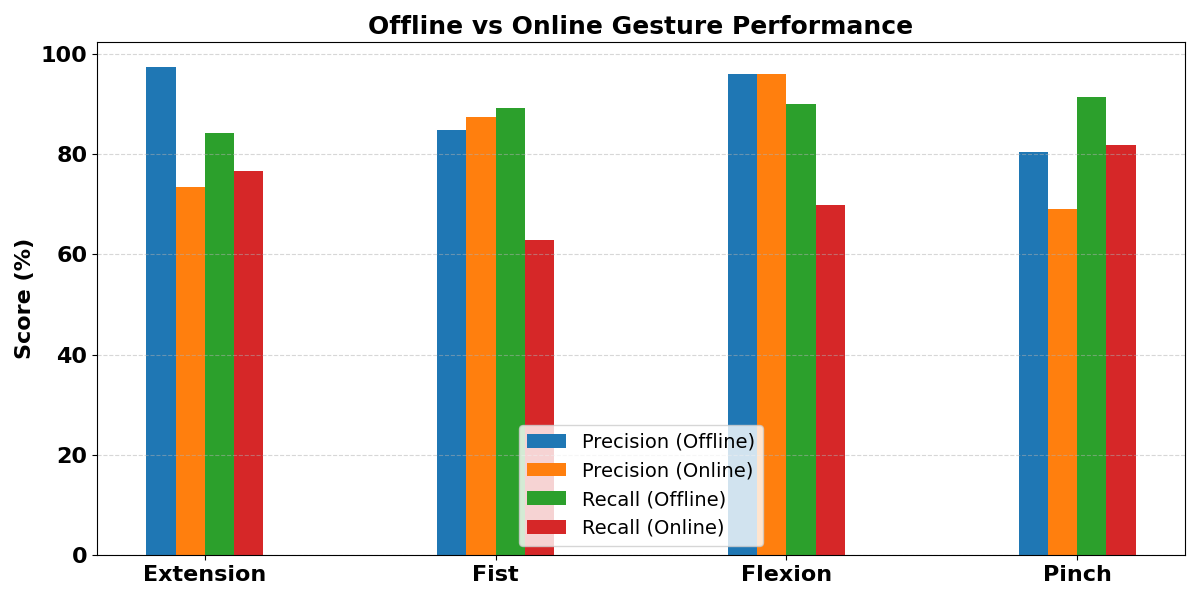
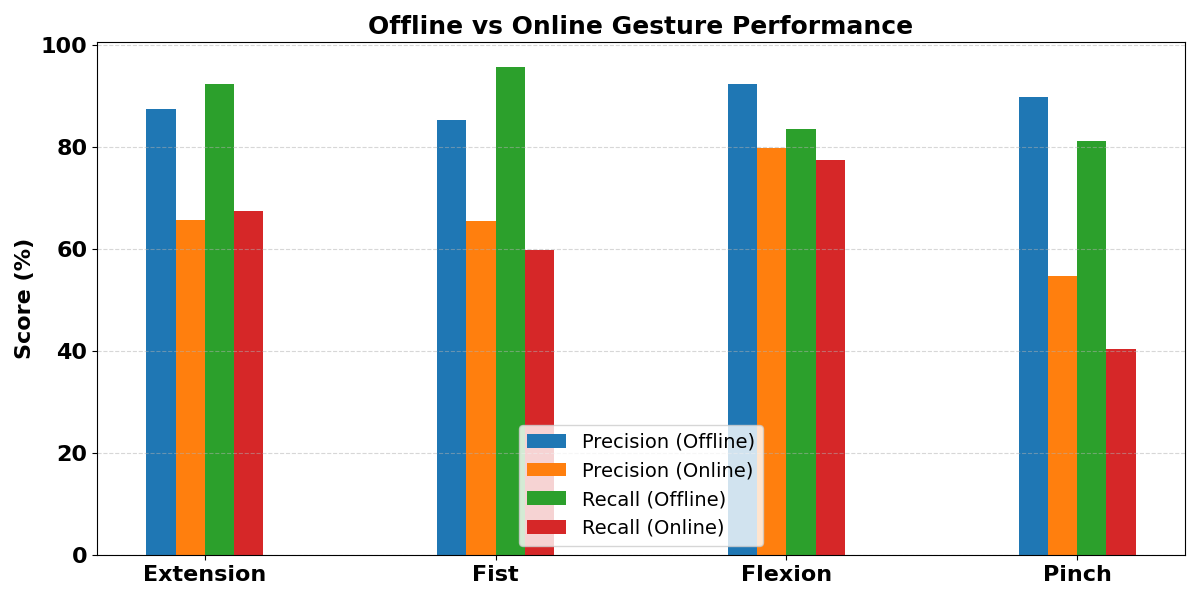
fixed some figures

diff --git a/Python/compareTestResults.py b/Python/compareTestResults.py
@@ -1,7 +1,6 @@
 import os
 import re
 from datetime import timedelta
-
 import numpy as np
 import pandas as pd
 import seaborn as sns
@@ -17,7 +16,7 @@ from collections import defaultdict
 
 pd.set_option("display.max_columns", None)
 
-participantNr = 1
+participantNr = 6
 
 
 def calculateTestStats(file, showPlot: bool):
@@ -72,7 +71,7 @@ def calculateTestStats(file, showPlot: bool):
     return results_df
 
 
-#testStats = calculateTestStats(f"TestData/Participant {participantNr}/Test_log_{participantNr}.csv", False)
+testStats = calculateTestStats(f"TestData/Participant {participantNr}/Test_log_{participantNr}.csv", False)
 #print(testStats)
 
 
@@ -144,8 +143,40 @@ def compareTrainAndTestSet(participantNr: int, testStats):
         print(f"Failed to compare classification reports: {e}")
 
 
-#comparison_df = compareTrainAndTestSet(participantNr, testStats)
+comparison_df = compareTrainAndTestSet(participantNr, testStats)
 
+
+def plot_connected_f1_scores(df):
+    # Convert percentages to 0–1 scale
+    df["f1-score (Offline)"] = df["f1-score (Offline)"] / 100
+    df["f1-score (Online)"] = df["f1-score (Online)"] / 100
+
+    plt.figure(figsize=(8, 5))
+
+    for idx, row in df.iterrows():
+        offline_score = row["f1-score (Offline)"]
+        online_score = row["f1-score (Online)"]
+        diff = online_score - offline_score
+
+        # Plot line with markers
+        plt.plot(["Offline", "Online"],
+                 [offline_score, online_score],
+                 marker="o",
+                 label=f"{row['Gesture']} (Delta={diff:+.2f})")  # Δ in legend
+
+    plt.title("F1-Score: Online vs Offline per Gesture", fontsize=16, fontweight="bold")
+    plt.ylabel("F1-Score", fontsize=16, fontweight="bold")
+    plt.xticks(fontsize=16, fontweight="bold")
+    plt.yticks(fontsize=16, fontweight="bold")
+    plt.ylim(0.7, 1.0)
+    plt.grid(True, linestyle="--", alpha=0.4)
+    plt.legend(title="Gesture (Delta F1)", fontsize=14, title_fontsize=16)
+    plt.tight_layout()
+    plt.savefig("connected_f1_scores.png")
+    plt.show()
+
+
+plot_connected_f1_scores(comparison_df)
 
 def plotGesturePerformanceComparison(comparison_df):
     """
@@ -213,6 +244,88 @@ def plotGesturePerformanceComparison(comparison_df):
 #plotGesturePerformanceComparison(comparison_df)
 
 
+def collect_online_f1_scores(base_path="TestData"):
+    all_data = []
+
+    for folder in os.listdir(base_path):
+        if folder.startswith("Participant "):
+            try:
+                participantNr = int(folder.split(" ")[1])
+                file_path = os.path.join(base_path, folder, f"Test_log_{participantNr}.csv")
+
+                testStats = calculateTestStats(file_path, False)
+                for _, row in testStats.iterrows():
+                    all_data.append({
+                        "Participant": participantNr,
+                        "Gesture": row["gesture"],
+                        "F1-score": row["f1-score"]
+                    })
+            except Exception as e:
+                print(f"Skipping {folder}: {e}")
+
+    return pd.DataFrame(all_data)
+
+
+def collect_offline_f1_scores(base_path="TestData"):
+    all_data = []
+
+    gesture_names = {
+        0: "Extension",
+        1: "Fist",
+        2: "Flexion",
+        3: "Pinch"
+    }
+
+    for folder in os.listdir(base_path):
+        if folder.startswith("Participant "):
+            try:
+                participantNr = int(folder.split(" ")[1])
+                report_path = os.path.join(base_path, folder, "classification_report.csv")
+
+                if not os.path.exists(report_path):
+                    print(f"Missing classification report for Participant {participantNr}")
+                    continue
+
+                df = pd.read_csv(report_path)
+
+                # Ensure we only use the first 4 rows (per gesture)
+                df = df.iloc[:4]
+
+                for i, row in df.iterrows():
+                    gesture = gesture_names.get(i, f"Gesture {i}")
+                    f1_score = row["f1-score"]
+                    all_data.append({
+                        "Participant": participantNr,
+                        "Gesture": gesture,
+                        "F1-score": f1_score
+                    })
+
+            except Exception as e:
+                print(f"Skipping {folder}: {e}")
+
+    return pd.DataFrame(all_data)
+
+
+def plot_violin_by_gesture(f1_df):
+    plt.figure(figsize=(10, 6))
+    sns.violinplot(data=f1_df, x="Gesture", y="F1-score", inner="box", palette="Set2")
+
+    plt.title("Distribution of F1-Scores by Gesture Across Participants for Offline test", fontsize=16, fontweight='bold')
+    plt.xlabel("Gesture", fontsize=16, fontweight='bold')
+    plt.ylabel("F1-Score", fontsize=16, fontweight='bold')
+    plt.xticks(fontsize=14, fontweight='bold')
+    plt.yticks(fontsize=14, fontweight='bold')
+    plt.ylim(0.5, 1)
+    plt.grid(True, linestyle='--', alpha=0.4)
+    plt.tight_layout()
+    plt.savefig("Images/violin_f1_scores_by_gesture_Offline.png")
+    plt.show()
+
+
+#f1_df = collect_offline_f1_scores()
+#plot_violin_by_gesture(f1_df)
+
+
 def plotMacroF1ByParticipant(base_path="TestData"):
     macro_f1_scores = []
 
@@ -228,27 +341,27 @@ def plotMacroF1ByParticipant(base_path="TestData"):
 
                 # Compute macro F1-score
                 macro_f1 = testStats["f1-score"].mean()
-                macro_f1_scores.append((participantNr, macro_f1))
+                macro_f1_scores.append((participantNr, float(macro_f1)))
 
             except Exception as e:
                 print(f"Skipping {folder}: {e}")
 
+
     # Convert to DataFrame for plotting
     df = pd.DataFrame(macro_f1_scores, columns=["Participant", "Macro F1"])
-    df = df.sort_values("Participant")
+    df = df.sort_values("Macro F1")
+
 
     # Plot
     plt.figure(figsize=(10, 6))
-    plt.bar(df["Participant"], df["Macro F1"], color="steelblue", width=0.6)
-
+    plt.bar(range(len(df)), df["Macro F1"], color="steelblue", width=0.6)
     plt.title("Macro F1-Score Across Participants", fontsize=16, fontweight='bold')
     plt.xlabel("Participant Number", fontsize=14, fontweight='bold')
     plt.ylabel("Macro F1-Score", fontsize=14, fontweight='bold')
-    plt.xticks(df["Participant"], fontsize=12, fontweight='bold')
+    plt.xticks(range(len(df)), df["Participant"], fontsize=12, fontweight='bold')
     plt.yticks(fontsize=12, fontweight='bold')
     plt.ylim(0, 1)
     plt.grid(True, linestyle='--', alpha=0.5)
-    plt.legend(fontsize=12)
     plt.tight_layout()
     plt.savefig("macro_f1_by_participant.png")
     plt.show()
@@ -709,7 +822,7 @@ def calcMovingBoxes():
     return participant_results, direction_df  # optional: return for further processing
 
 
-participantResults, directionResults = calcMovingBoxes()
+#participantResults, directionResults = calcMovingBoxes()
 
 
 def movingBoxKruskalWallis(movingBoxResults):
@@ -741,7 +854,7 @@ def movingBoxKruskalWallis(movingBoxResults):
     print(f"Kruskal-Wallis for moving overall: H = {kruskal_result.statistic:.3f}, p = {kruskal_result.pvalue:.3f}")
 
 
-movingBoxKruskalWallis(participantResults)
+#movingBoxKruskalWallis(participantResults)
 
 
 def computeANOVA():

diff --git a/Python/overallLearningCurve.py b/Python/overallLearningCurve.py
@@ -1,14 +1,12 @@
 import os
-
 from sklearn.metrics import accuracy_score, confusion_matrix, classification_report
 from sklearn.model_selection import train_test_split, learning_curve
 from sklearn.ensemble import RandomForestClassifier
-import dataPreProcessing
-import joblib
 import pandas as pd
 import matplotlib
 matplotlib.use("TkAgg")
 from matplotlib import pyplot as plt
+from matplotlib.lines import Line2D
 import numpy as np
 
 
@@ -51,26 +49,50 @@ def generate_learning_curve(participant_datasets, train_sizes, model, n_repeats=
     mean_val = [np.mean(all_val_acc[size]) for size in train_sizes]
     std_val = [np.std(all_val_acc[size]) for size in train_sizes]
 
-    return mean_train, std_train, mean_val, std_val
+    participant_ids = list(participant_datasets.keys())
+    individual_train_curves = {
+        pid: [all_train_acc[size][i] for size in train_sizes]
+        for i, pid in enumerate(participant_ids)
+    }
+    individual_val_curves = {
+        pid: [all_val_acc[size][i] for size in train_sizes]
+        for i, pid in enumerate(participant_ids)
+    }
 
-def plot_learning_curve(train_sizes, mean_train, std_train, mean_val, std_val):
+    return mean_train, std_train, mean_val, std_val, individual_train_curves, individual_val_curves
+
+
+def plot_learning_curve(train_sizes, mean_train, std_train, mean_val, std_val,
+                        individual_train_curves=None, individual_val_curves=None):
     plt.figure(figsize=(8, 5))
-    plt.plot(train_sizes, mean_train, label='Training Accuracy', color='green')
-    plt.plot(train_sizes, mean_val, label='Validation Accuracy', color='blue')
-    plt.fill_between(train_sizes,
-                     np.array(mean_train) - np.array(std_train),
-                     np.array(mean_train) + np.array(std_train),
-                     alpha=0.2, color='green')
-    plt.fill_between(train_sizes,
-                     np.array(mean_val) - np.array(std_val),
-                     np.array(mean_val) + np.array(std_val),
-                     alpha=0.2, color='blue')
+
+    # Plot individual participant curves (if provided)
+    if individual_train_curves and individual_val_curves:
+        for participant in individual_train_curves:
+            plt.plot(train_sizes, individual_train_curves[participant],
+                     color='green', alpha=0.2, linewidth=0.8)
+        for participant in individual_val_curves:
+            plt.plot(train_sizes, individual_val_curves[participant],
+                     color='blue', alpha=0.2, linewidth=0.8)
+
+    # Plot mean curves
+    plt.plot(train_sizes, mean_train, label='Training Accuracy', color='green', linewidth=2.5)
+    plt.plot(train_sizes, mean_val, label='Validation Accuracy', color='blue', linewidth=2.5)
+
     plt.xlabel("Training Set Size", fontsize=16, fontweight='bold')
     plt.ylabel("Accuracy", fontsize=16, fontweight='bold')
     plt.title("Learning Curve Averaged Across Participants", fontsize=18, fontweight='bold')
     plt.xticks(fontsize=16, fontweight='bold')
     plt.yticks(fontsize=16, fontweight='bold')
-    plt.legend(fontsize=16)
+
+    custom_lines = [
+        Line2D([0], [0], color='green', lw=2.5, label='Avg Training Accuracy'),
+        Line2D([0], [0], color='blue', lw=2.5, label='Avg Validation Accuracy'),
+        Line2D([0], [0], color='green', lw=1, alpha=0.2, label='Individual Training Curves'),
+        Line2D([0], [0], color='blue', lw=1, alpha=0.2, label='Individual Validation Curves'),
+    ]
+
+    plt.legend(handles=custom_lines, fontsize=16, loc='lower right')
     plt.grid(True)
     plt.tight_layout()
     plt.show()
@@ -105,5 +127,8 @@ for i, df in enumerate(all_dataframes):
 
 trainsizes = [500, 1000, 2000, 3000, 4000]
 model = RandomForestClassifier(n_estimators=100, max_depth=6, min_samples_split=10, min_samples_leaf=5)
-mean_train, std_train, mean_val, std_val = generate_learning_curve(participant_datasets, trainsizes, model)
-plot_learning_curve(trainsizes, mean_train, std_train, mean_val, std_val)
+mean_train, std_train, mean_val, std_val, indiv_train, indiv_val = generate_learning_curve(
+    participant_datasets, trainsizes, model)
+
+plot_learning_curve(trainsizes, mean_train, std_train, mean_val, std_val,
+                    individual_train_curves=indiv_train, individual_val_curves=indiv_val)
